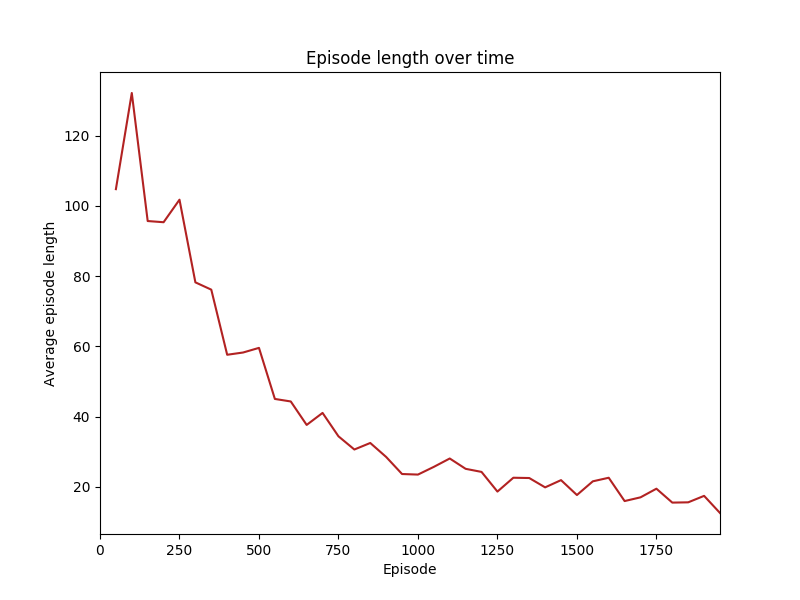
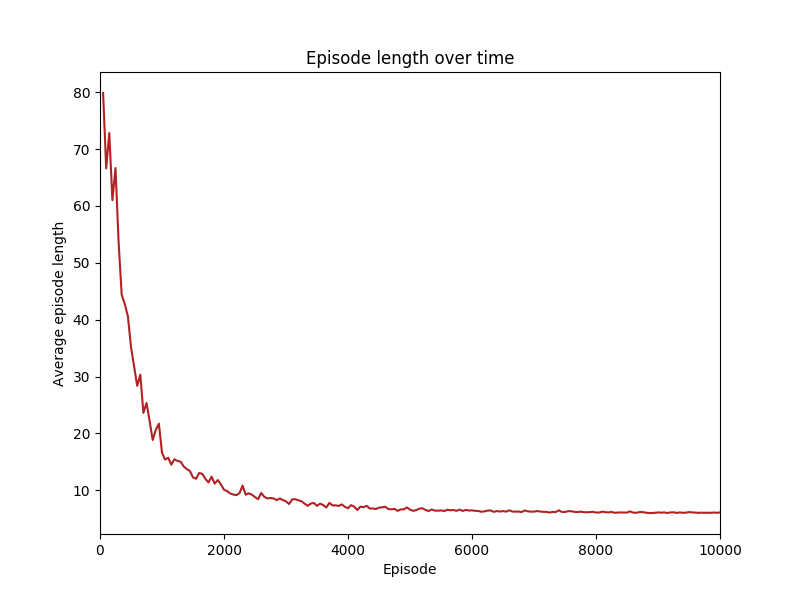
Fixed model implementation (Output layer - Activation func.)

diff --git a/Learning_Module/DeepQLearning.py b/Learning_Module/DeepQLearning.py
@@ -38,7 +38,7 @@ def deep_q_learning_alg():
 
         start_time = time.time()
 
-        while not done:
+        while not done and step < MAX_STEP_PER_EPISODE:
             if np_random_number() > epsilon:  # Take legal action greedily
                 actionsQValues = agent_get_qs(current_state)
                 legalActionsIds = env_get_legal_actions(current_state)
@@ -78,12 +78,12 @@ def deep_q_learning_alg():
             colorPrint(str(average_duration), YELLOW)
 
             # Save model, but only when min reward is greater or equal a set value
-            if average_reward > GOAL_REWARD:
-                # Create models folder
-                if not os.path.isdir('models'):
-                    os.makedirs('models')
-                agent.model.save(f'models/{MODEL_NAME}__{average_reward}avg__{int(time.time())}.model')
-                break
+            # if average_reward > GOAL_REWARD + GOAL_REWARD * ((len(env.goal_state) - 1) / len(env.goal_state)):
+            #     # Create models folder
+            #     if not os.path.isdir('models'):
+            #         os.makedirs('models')
+            #     agent.model.save(f'models/{MODEL_NAME}__{average_reward}avg__{int(time.time())}.model')
+            #     break
 
         # Decay epsilon
         if epsilon > MIN_EPSILON:

diff --git a/Learning_Module/hyperparameters_DQL.py b/Learning_Module/hyperparameters_DQL.py
@@ -3,20 +3,20 @@ REPLAY_MEMORY_SIZE = 20_000#50_000
 MIN_REPLAY_MEMORY_SIZE = 1_000  # Minimum number of steps to start training
 MINIBATCH_SIZE = 64  # The number of samples we use for training
 UPDATE_TARGET_EVERY = 5
-GOAL_REWARD = 400
+GOAL_REWARD = 300
 DISCOUNT = 0.99
-LEARNING_RATE = 0.00075#0.001
+LEARNING_RATE = 0.001
 
 # Environment settings
-EPISODES = 5_000# 20_000
-# MAX_STEP_PER_EPISODE = 100
+EPISODES = 10_000# 20_000
+MAX_STEP_PER_EPISODE = 100
 
 # Exploration settings
 EPSILON_DECAY = 0.9995
-MIN_EPSILON = 0.01#0.001
+MIN_EPSILON = 0.001
 
 # Stats settings
 AGGREGATE_STATS_EVERY = 50  # Episodes
 
 
-MAX_REWARD = 7
+MAX_REWARD = 30

diff --git a/Encoding_Module/environment.py b/Encoding_Module/environment.py
@@ -258,10 +258,11 @@ class Environment:
     def get_reward(self, action, gain):
         reward = -1
         for rwd in self.allActions[action]["reward"].values():
-            reward -= (np.where(self.allRewards == rwd)[0][0] + 1) / self.allRewards.size
             # reward -= rwd/MAX_REWARD
+            reward -= rwd
 
-        return reward + (gain * 15)
+        return reward + (gain * (GOAL_REWARD / len(self.goal_state)))
+        # return reward + (gain * 15)
         # return -1 + (gain * 10)
 
 # -------------------------------------------------------------------------------------------------------------------- #

diff --git a/Learning_Module/DDQNAgent.py b/Learning_Module/DDQNAgent.py
@@ -38,7 +38,7 @@ class DDQNAgent:
                         activation="relu",
                         input_dim=self.env.state.size)),
         model.add(Dense(units=self.env.allActionsKeys.size,
-                        activation="softmax"))
+                        activation="linear"))
 
         model.compile(loss="mse", optimizer=Adam(lr=LEARNING_RATE), metrics=['accuracy'])
 
